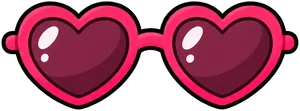
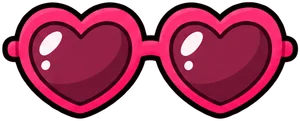
looks v3: nine new hats and six glasses in the critters' line, retired ids mapped (bucket fishing, visor sunhat, captain tophat, flowers halo, goggles snorkel) hatOf: none is no hat for the groom too, the crown only when unset; cleanLook crowns a groom who never picked

Changed region(s): [[0.0, 0.0, 1.0, 1.0], [0.3, 0.8108, 0.33, 0.8378]]

diff --git a/float/shared/looks.js b/float/shared/looks.js
@@ -18,25 +18,41 @@ export const CRITTERS = Object.freeze([
   { id:"frog", name:"Frog" },
 ]);
 
+/* the hat rack (float/GROOVE.md v3 "A cuter, cooler hat rack"), in the
+   order the Locker offers them */
 export const HATS = Object.freeze([
   { id:"none", name:"None" },
+  { id:"froggy", name:"Frog hat" },
+  { id:"beanie", name:"Beanie" },
+  { id:"propeller", name:"Propeller" },
+  { id:"tophat", name:"Top hat" },
+  { id:"viking", name:"Viking" },
+  { id:"mushroom", name:"Mushroom" },
+  { id:"fishing", name:"Fishing hat" },
+  { id:"sunhat", name:"Sun hat" },
+  { id:"halo", name:"Halo" },
   { id:"cowboy", name:"Cowboy" },
-  { id:"bucket", name:"Bucket" },
-  { id:"visor", name:"Visor" },
-  { id:"captain", name:"Captain" },
   { id:"party", name:"Party" },
-  { id:"flowers", name:"Flower crown" },
   /* the groom's alone (an entrant with groom:true) */
   { id:"crown", name:"Crown", groom:true },
 ]);
 
 export const SHADES = Object.freeze([
   { id:"none", name:"None" },
-  { id:"aviators", name:"Aviators" },
   { id:"hearts", name:"Hearts" },
   { id:"stars", name:"Stars" },
-  { id:"goggles", name:"Goggles" },
+  { id:"pixel", name:"Pixel" },
+  { id:"round", name:"Round" },
+  { id:"threed", name:"3D" },
+  { id:"snorkel", name:"Snorkel" },
+  { id:"aviators", name:"Aviators" },
 ]);
+
+/* ids saved before the v3 rack, each drawn and cleaned as the nearest one on it */
+export const RETIRED_HATS = Object.freeze({ bucket:"fishing", visor:"sunhat", captain:"tophat", flowers:"halo" });
+export const RETIRED_SHADES = Object.freeze({ goggles:"snorkel" });
+export const retiredHat = id => RETIRED_HATS[id] || id;
+export const retiredShades = id => RETIRED_SHADES[id] || id;
 
 /* what the critter wears (float/GROOVE.md "Looks, the Groove"): the photo
    tee is tinted the rider's colour with their profile photo printed on the
@@ -69,6 +85,7 @@ export const ALL_CRITTER_IDS = Object.freeze([...CRITTER_IDS, ...SPECIAL_CRITTER
 /* the critters a rider may pick: the 13, and the groom's own */
 export const crittersFor = ({ groom = false } = {}) =>
   [...CRITTERS, ...SPECIAL_CRITTERS.filter(item => !item.groom || groom)];
+/* the ids on the rack (a retired one is cleaned to its new id) */
 export const HAT_IDS = Object.freeze(ids(HATS));
 export const SHADE_IDS = Object.freeze(ids(SHADES));
 export const SHIRT_IDS = Object.freeze(ids(SHIRTS));
@@ -83,17 +100,20 @@ export function defaultLook(seed = "", floatieIds = ["classic"]) {
   return { critter:pick(CRITTER_IDS, 1), floatie:pick(floatieIds, 2), hat:"none", shades:"none", shirt:"none", pose:pick(POSE_IDS, 3) };
 }
 
-/* a look made legal: unknown ids fall back, the crown and Winnie only for the groom */
+/* a look made legal: unknown ids fall back, a retired hat or pair is the
+   nearest on the rack, the crown and Winnie only for the groom; a groom
+   who never picked a hat wears the crown ("none" is no hat, his too) */
 export function cleanLook(look, { groom = false, floatieIds = ["classic"], seed = "" } = {}) {
   const fallback = defaultLook(seed, floatieIds);
   const one = (value, list, key) => list.includes(value) ? value : fallback[key];
-  const hat = one(look?.hat, HAT_IDS, "hat");
+  const unset = look?.hat === undefined || look?.hat === null || look?.hat === "";
+  const hat = groom && unset ? "crown" : one(retiredHat(look?.hat), HAT_IDS, "hat");
   const critters = groom ? ALL_CRITTER_IDS : CRITTER_IDS;
   return {
     critter:one(look?.critter, critters, "critter"),
     floatie:one(look?.floatie, floatieIds, "floatie"),
     hat:hat === "crown" && !groom ? "none" : hat,
-    shades:one(look?.shades, SHADE_IDS, "shades"),
+    shades:one(retiredShades(look?.shades), SHADE_IDS, "shades"),
     shirt:one(look?.shirt, SHIRT_IDS, "shirt"),
     pose:one(look?.pose, POSE_IDS, "pose"),
   };

diff --git a/float/client/art/groove/index.js b/float/client/art/groove/index.js
@@ -32,7 +32,7 @@
    so it takes the colour too) on anchor.head sized to its head. The groom
    wears the crown unless he picked another hat. The tee is drawn only with
    a photo; a photo that will not load leaves the tee plain. */
-import { ALL_CRITTER_IDS } from "../../../shared/looks.js";
+import { ALL_CRITTER_IDS, retiredHat, retiredShades } from "../../../shared/looks.js";
 
 export const GROOVE_BASE = "/float/groove/";
 export const POSES = Object.freeze(["idle", "stroke", "hey", "nice", "miss", "chug", "cheer", "out"]);
@@ -175,14 +175,23 @@ export function lookOf(any = {}) {
     critter:pick(look.critter) || pick(any?.critter) || FALLBACK_CRITTER,
     color:normalColor(any?.color ?? look.color),
     groom:!!(any?.groom ?? look.groom),
-    hat:pick(look.hat ?? any?.hat),
+    /* "none" stays "none": no hat, the groom's crown too; unset (null) is the groom's crown */
+    hat:(look.hat ?? any?.hat) === "none" ? "none" : pick(look.hat ?? any?.hat),
     shades:pick(look.shades ?? any?.shades),
     shirt:(look.shirt ?? any?.shirt) === "photo" && photo ? "photo" : null,
     photo,
   };
 }
-/* the hat a look wears: its own, else the groom's crown */
-export const hatOf = (look, m = manifest) => (look.hat && m?.hats?.[look.hat] ? look.hat : look.groom && m?.hats?.crown ? "crown" : null);
+/* the hat a look wears: "none" is none (the groom's too); its own; else, unset, the groom's crown.
+   A retired id is drawn as the hat cleanLook moves it to. */
+export function hatOf(look, m = manifest) {
+  const raw = look?.hat;
+  if (raw === "none") return null;
+  const id = raw ? retiredHat(raw) : null;
+  if (id && m?.hats?.[id]) return id;
+  if (raw && !id) return null;
+  return !raw && look?.groom && m?.hats?.crown ? "crown" : null;
+}
 /* a critter's sizes for hats and glasses (in its art's px) */
 const DEFAULT_MEASURE = Object.freeze({ headW:180, eyeSpan:80, tilt:0 });
 /* a head is never taken as narrower than this share of the box (a hat on a small head still reads on a TV) */
@@ -345,7 +354,7 @@ async function canvasDataUrl(c) {
 async function layersOf(m, look) {
   const hatId = hatOf(look, m);
   const hat = hatId ? m.hats[hatId] : null;
-  const sh = look.shades ? m.shades?.[look.shades] : null;
+  const sh = look.shades ? m.shades?.[retiredShades(look.shades)] : null;
   const [hatSrc, hatMask, shadesImg, photo] = await Promise.all([
     hat ? loadImage(grooveUrl(hat.src)).catch(() => null) : null,
     hat?.mask ? loadImage(grooveUrl(hat.mask)).catch(() => null) : null,
@@ -380,7 +389,7 @@ const paintSize = size => (SPRITE_SIZES.includes(size) ? size : BOX);
 /* everything that changes the picture, so two looks never share an entry */
 const spriteKey = (raw = {}) => {
   const look = lookOf(raw);
-  const hat = manifest ? hatOf(look, manifest) : look.hat || (look.groom ? "crown" : null);
+  const hat = manifest ? hatOf(look, manifest) : look.hat === "none" ? null : look.hat || (look.groom ? "crown" : null);
   return [resolvedId(look.critter), look.color, hat || "", look.shades || "", look.shirt ? `tee:${look.photo}` : "", paintSize(raw?.size)].join("|");
 };
 function forget(urls) {
